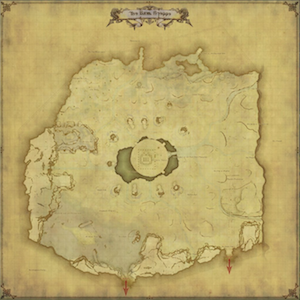
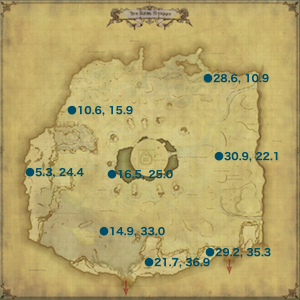
メンバー追加部分の修正
- 画像に座標を打ち込んだ
- 座標に合わせてmap,areaタグを設定し、クリックできるようにした
- データの型を一部変更した
- 地域未選択でもエラーが出ないようにした
- Vue.componentでareaタグを実装した
- optionの中身をv-forで生成するようにした他

diff --git a/js/application.js b/js/application.js
@@ -1,17 +1,93 @@
-(function() {
-  let memberAdd = new Vue({
+window.onload = function() {
+  Vue.component('area-list', {
+    props: ['point', 'index', 'area', 'memberName'],
+    template: '<area shape="rect" v-bind:coords="point.coords" v-on:click="selectTreasurePoint">',
+    methods: {
+      selectTreasurePoint: function() {
+      }
+    }
+  });
+  var memberAdd = new Vue({
     el: "#member-add-area",
     data: {
       memberName: "",
-      areaLocation: "",
+      selectedArea: "",
+      imageName: "noimage",
       nameTextShowable: false,
       areaSelectShowable: false,
       areaImageShowable: false,
       imageCoordinate: "",
+      areas: [
+        { name: "ギラバニア辺境地帯", key: "gyr-abania-fringes" },
+        { name: "ギラバニア山岳地帯", key: "gyr-abania-peaks" },
+        { name: "ギラバニア湖畔地帯", key: "gyr-abania-lochs" },
+        { name: "紅玉海", key: "othard-ruby-sea" },
+        { name: "ヤンサ", key: "othard-yanxia" },
+        { name: "アジムステップ", key: "othard-azim-steppe" }
+      ],
       treasurePoints: {
-        "gyr-abania-fringes": [{ coords: "163, 83, 10", point: "23.4, 12.2" }]
+        "gyr-abania-fringes": [
+          { coords: "99, 104, 175, 119", x: 15.5, y: 16.5, description: "カストルム・オリエンス南東、カステッルム・コルヴィ付近" },
+          { coords: "54, 70, 124, 85", x: 9.3, y: 12.5, description: "カストルム・オリエンス門前" },
+          { coords: "66, 212, 138, 227", x: 11.1, y: 31.1, description: "流星の尾、夜の森側出口付近" },
+          { coords: "217, 141, 290, 156", x: 31.5, y: 20.8, description: "マップ東、ピーリングストーンズ北" },
+          { coords: "45, 191, 112, 206", x: 8.3, y: 28.2, description: "夜の森、賢者の木南" },
+          { coords: "174, 128, 243, 143", x: 25.7, y: 20.1, description: "ピーリングストーンズ北西、ウィルラ・ニリヤ西" },
+          { coords: "158, 74, 236, 89", x: 23.4, y: 12.2, description: "マップ北側付近、ラールガーズリーチ南西付近" },
+          { coords: "220, 212, 298, 227", x: 33.0, y: 31.4, description: "マップ南東、ヤーンの大穴北東" }
+        ],
+        "gyr-abania-peaks": [
+          { coords: "0, 220, 65, 235", x: 8.6, y: 32.5, description: "マップ南西、アラギリ西" },
+          { coords: "102, 51, 170, 66", x: 16.1, y: 9.2, description: "マップ北西、アラガーナ西" },
+          { coords: "160, 214, 233, 229", x: 24.0, y: 31.6, description: "マップ南東、カストルム・アバニア西" },
+          { coords: "96, 225, 170, 240", x: 15.7, y: 33.1, description: "マップ南、アラギリ北" },
+          { coords: "100, 151, 172, 166", x: 15.4, y: 22.9, description: "マップ中央やや西崖上" },
+          { coords: "175, 86, 248, 101", x: 26.0, y: 13.7, description: "アラガーナ南東、ラストロック付近" },
+          { coords: "75, 23, 141, 38", x: 12.2, y: 5.5, description: "マップ北西、ラールガーズリーチ東" },
+          { coords: "227, 55, 296, 70", x: 33.1, y: 9.8, description: "マップ北東、涙隠しの丘付近" }
+        ],
+        "gyr-abania-lochs": [
+          { coords: "50, 115, 111, 130", x: 8.7, y: 17.7, description: "ポルタ・プレトリア北" },
+          { coords: "30, 35, 86, 50", x: 5.8, y: 6.7, description: "マップ北西、王の狩り場付近" },
+          { coords: "220, 34, 282, 49", x: 31.9, y: 6.4, description: "マップ北東端" },
+          { coords: "168, 48, 230, 63", x: 25.1, y: 7.8, description: "マップ北東、ブラッドハウ墓地付近" },
+          { coords: "131, 158, 201, 173", x: 19.6, y: 23.3, description: "マップ中央、橋の南" },
+          { coords: "106, 197, 172, 212", x: 15.9, y: 28.6, description: "マップ中央やや南、ロッホワッチ塔付近" },
+          { coords: "164, 218, 234, 233", x: 24.5, y: 32.0, description: "マップ南、サリ僧院北" },
+          { coords: "203, 113, 274, 128", x: 29.7, y: 17.4, description: "マップ東、女王の庭付近" }
+        ],
+        "othard-ruby-sea": [
+          { coords: "43, 200, 106, 215", x: 7.7, y: 29.7, description: "マップ南西、ゼッキ島南" },
+          { coords: "25, 97, 87, 112", x: 5.2, y: 15.1, description: "マップ西、イサリ村南" },
+          { coords: "225, 118, 295, 133", x: 32.9, y: 18.4, description: "マップ東、碧のタマミズ東" },
+          { coords: "190, 205, 259, 220", x: 27.7, y: 30.0, description: "マップ南東、サカズキ島北西" },
+          { coords: "212, 170, 282, 185", x: 30.5, y: 25.4, description: "マップ南東、ベッコウ島南" },
+          { coords: "113, 55, 175, 70", x: 16.9, y: 9.6, description: "マップ北、オノコロ島西" },
+          { coords: "122, 252, 192, 267", x: 18.4, y: 36.3, description: "マップ南、獄之蓋西" },
+          { coords: "222, 48, 285, 63", x: 32.7, y: 8.8, description: "マップ北東、オノコロ島東、沖之岩頂上" }
+        ],
+        "othard-yanxia": [
+          { coords: "215, 195, 283, 210", x: 31.0, y: 28.5, description: "マップ南東、東龍鱗橋東" },
+          { coords: "85, 203, 153, 218", x: 13.2, y: 30.1, description: "マップ南西、鼻頭" },
+          { coords: "220, 245, 290, 260", x: 31.8, y: 35.5, description: "マップ南東、カストルム・フルーミニス付近" },
+          { coords: "150, 190, 217, 205", x: 22.2, y: 27.8, description: "マップ南、西龍鱗橋北" },
+          { coords: "218, 24, 280, 39", x: 32.0, y: 5.4, description: "マップ北東、アジムステップ傍" },
+          { coords: "133, 29, 193, 44", x: 20.0, y: 5.5, description: "マップ北、ドマ城下町北" },
+          { coords: "147, 86, 215, 101", x: 21.8, y: 13.9, description: "マップ中央やや北、烈士庵西" },
+          { coords: "77, 123, 145, 138", x: 12.0, y: 18.9, description: "マップ西、ドマ城南西" }
+        ],
+        "othard-azim-steppe": [
+          { coords: "24, 165, 86, 180", x: 5.3, y: 24.4, description: "マップ西端、岩場上" },
+          { coords: "143, 255, 211, 270", x: 21.7, y: 36.9, description: "マップ南、岩場上" },
+          { coords: "214, 149, 280, 164", x: 30.9, y: 22.1, description: "マップ東、再会の市北西" },
+          { coords: "205, 245, 272, 260", x: 29.2, y: 35.3, description: "マップ南東、紅玉海西、岩場上" },
+          { coords: "202, 70, 270, 85", x: 28.6, y: 10.9, description: "マップ北東、モル・イロー西、岩場上" },
+          { coords: "106, 167, 173, 182", x: 16.5, y: 25.0, description: "マップ中央やや南西、明けの玉座南西" },
+          { coords: "99, 223, 166, 238", x: 14.9, y: 33.0, description: "マップ南西、ドタール・カー東" },
+          { coords: "67, 102, 134, 117", x: 10.6, y: 15.9, description: "マップ西北西、バルダム覇道南" }
+        ]
       },
-      treasurePoint: ""
+      points: []
     },
     methods: {
       showAddMemberForm: function() {
@@ -24,17 +100,18 @@
           this.areaSelectShowable = false;
       },
       showAreaMap: function() {
-        this.areaImageShowable = true;
-        let = points = this.treasurePoints[this.areaLocation];
+        let ps = this.treasurePoints[this.selectedArea];
 
-        if (points.length > 0) {
-          var _this = this;
-          this.treasurePoint = '';
-          points.forEach(function(dat) {
-            this.treasurePoint = this.treasurePoint + '<area shape="circle" coords="' + dat.coords + '" v-on:click="selectedTreasurePoint(\'' + dat.point + '\'">';
-          }, _this);
+        if (ps && ps.length > 0) {
+          this.points = ps;
+          this.imageName = this.selectedArea;
+          this.areaImageShowable = true;
+        }
+        else {
+          this.imageName = "noimage";
+          this.areaImageShowable = false;
         }
       }
     }
   });
-})();
+};

diff --git a/index.html b/index.html
@@ -4,6 +4,9 @@
     <title>ff14 timeworn assist tools</title>
     <meta name="viewport" content="width=device-width, initial-scale=1, shrink-to-fit=no">
     <link rel="stylesheet" href="https://maxcdn.bootstrapcdn.com/bootstrap/4.0.0-beta.2/css/bootstrap.min.css" integrity="sha384-PsH8R72JQ3SOdhVi3uxftmaW6Vc51MKb0q5P2rRUpPvrszuE4W1povHYgTpBfshb" crossorigin="anonymous">
+    <script type="text/javascript">
+        var version = "1509719831845";
+    </script>
   </head>
   <body>
     <div class="container">
@@ -27,21 +30,19 @@
                     <div class="form-group">
                       <div v-if="areaSelectShowable">
                         <label for="form-member-area">地図の地域</label>
-                        <select name="member_area" id="form-member-area" class="form-control" v-on:change="showAreaMap" v-model="areaLocation">
+                        <select name="member_area" id="form-member-area" class="form-control" v-on:change="showAreaMap" v-model="selectedArea">
                           <option>選択してください</option>
-                          <option value="gyr-abania-fringes">ギラバニア辺境地帯</option>
-                          <option value="gyr-abania-peaks">ギラバニア山岳地帯</option>
-                          <option value="gyr-abania-lochs">ギラバニア湖畔地帯</option>
-                          <option value="othard-ruby-sea">紅玉海</option>
-                          <option value="othard-yanxia">ヤンサ</option>
-                          <option value="othard-azim-steppe">アジムステップ</option>
+                          <option v-for="area in areas" v-bind:value="area.key">{{area.name}}</option>
                         </select>
                       </div>
                     </div>
                   </div>
                   <div id="map-image" v-if="areaImageShowable">
-                    <img v-bind:src="'./img/' + areaLocation + '.png'" usemap="treasurePoint">
-                    <map name="treasurePoint" v-html="treasurePoint"></map>
+                    <label>地図の位置</label>
+                    <img v-bind:src="'./img/' + imageName + '.png'" usemap="treasurePoint" v-if="selectedArea">
+                    <map name="treasurePoint">
+                        <area-list v-for="(point, index) in points" v-bind:location="selectedArea" v-bind:point="point" v-bind:index="index">
+                    </map>
                   </div>
                 </div>
               </div>
@@ -63,6 +64,6 @@
     <script src="https://cdnjs.cloudflare.com/ajax/libs/popper.js/1.12.3/umd/popper.min.js" integrity="sha384-vFJXuSJphROIrBnz7yo7oB41mKfc8JzQZiCq4NCceLEaO4IHwicKwpJf9c9IpFgh" crossorigin="anonymous"></script>
     <script src="https://maxcdn.bootstrapcdn.com/bootstrap/4.0.0-beta.2/js/bootstrap.min.js" integrity="sha384-alpBpkh1PFOepccYVYDB4do5UnbKysX5WZXm3XxPqe5iKTfUKjNkCk9SaVuEZflJ" crossorigin="anonymous"></script>
     <script src="https://unpkg.com/vue"></script>
-    <script src="./js/application.js"></script>
+    <script src="./js/application.js?v=1509720258151"></script>
   </body>
 </html>
